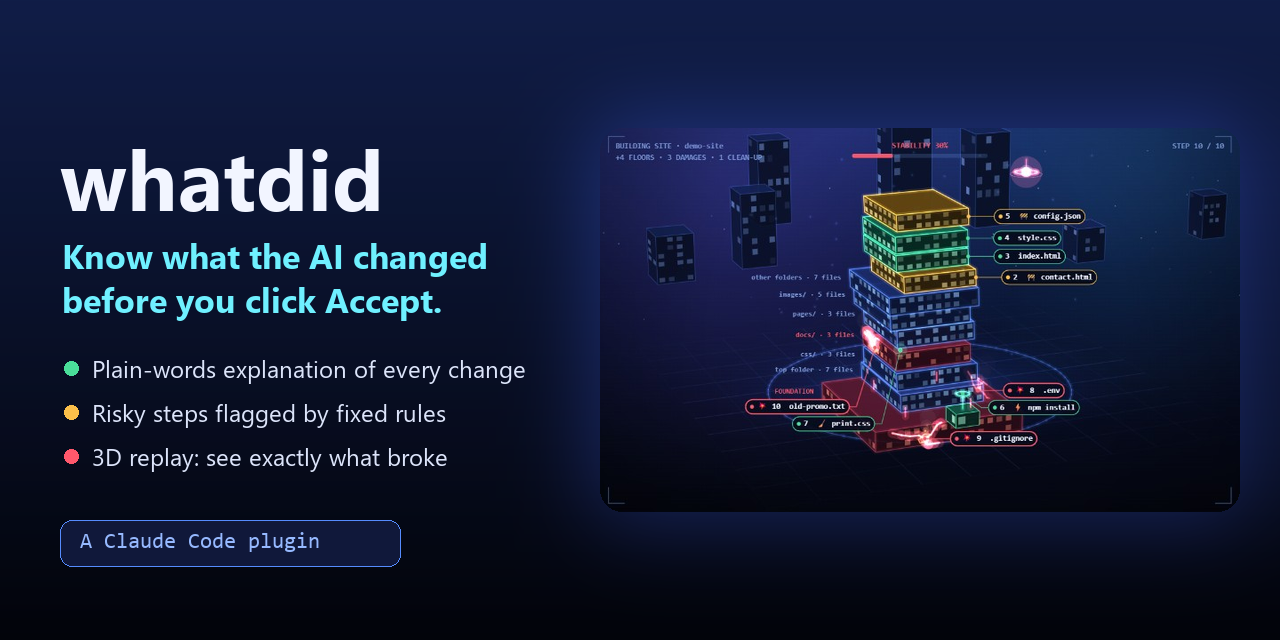
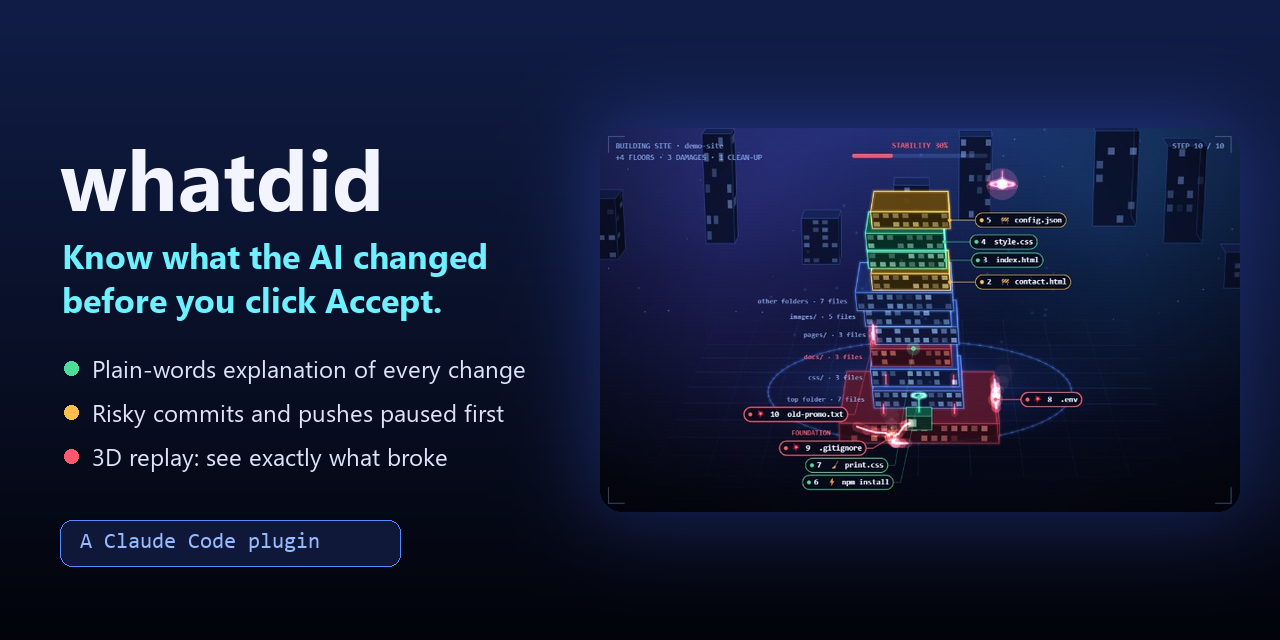
Release 2.4.2

Changed region(s): [[0.4688, 0.1875, 0.9688, 0.7812], [0.125, 0.625, 0.4062, 0.6875]]

diff --git a/README.md b/README.md
@@ -4,7 +4,7 @@
 <p>A Claude Code plugin that explains an agent's changes in plain words, for people who don't read code.</p>
 <p>
   <img src="https://img.shields.io/badge/Claude_Code-plugin-D97757?style=flat-square" alt="Claude Code plugin">
-  <img src="https://img.shields.io/badge/version-2.4.1-167D68?style=flat-square" alt="Version 2.4.1">
+  <img src="https://img.shields.io/badge/version-2.4.2-167D68?style=flat-square" alt="Version 2.4.2">
   <img src="https://img.shields.io/badge/risk_scan-AI_tokens_0-167D68?style=flat-square" alt="The risk scan and reminder consume 0 AI model tokens">
   <a href="#validation"><img src="https://img.shields.io/badge/checks-43_passing-167D68?style=flat-square" alt="43 automatic checks passing: 34 script checks on Windows, macOS and Linux, and 9 real Claude runs"></a>
   <a href="LICENSE.md"><img src="https://img.shields.io/badge/license-PolyForm_Strict_1.0.0-555555?style=flat-square" alt="PolyForm Strict 1.0.0 license"></a>

diff --git a/CHANGELOG.md b/CHANGELOG.md
@@ -2,6 +2,10 @@
 
 All notable changes to the public releases of whatdid.
 
+## 2.4.2 (2026-11-26)
+
+**Docs only. No change to what the plugin does.** New animated replay at the top of the README, share image and screenshot, recorded from 2.4.
+
 ## 2.4.1 (2026-11-26)
 
 **Push guard, real-order replay, undo one file.** (2.4.0 was never published on its own; 2.4.1 is 2.4.0 plus fixes, tests and docs.)
